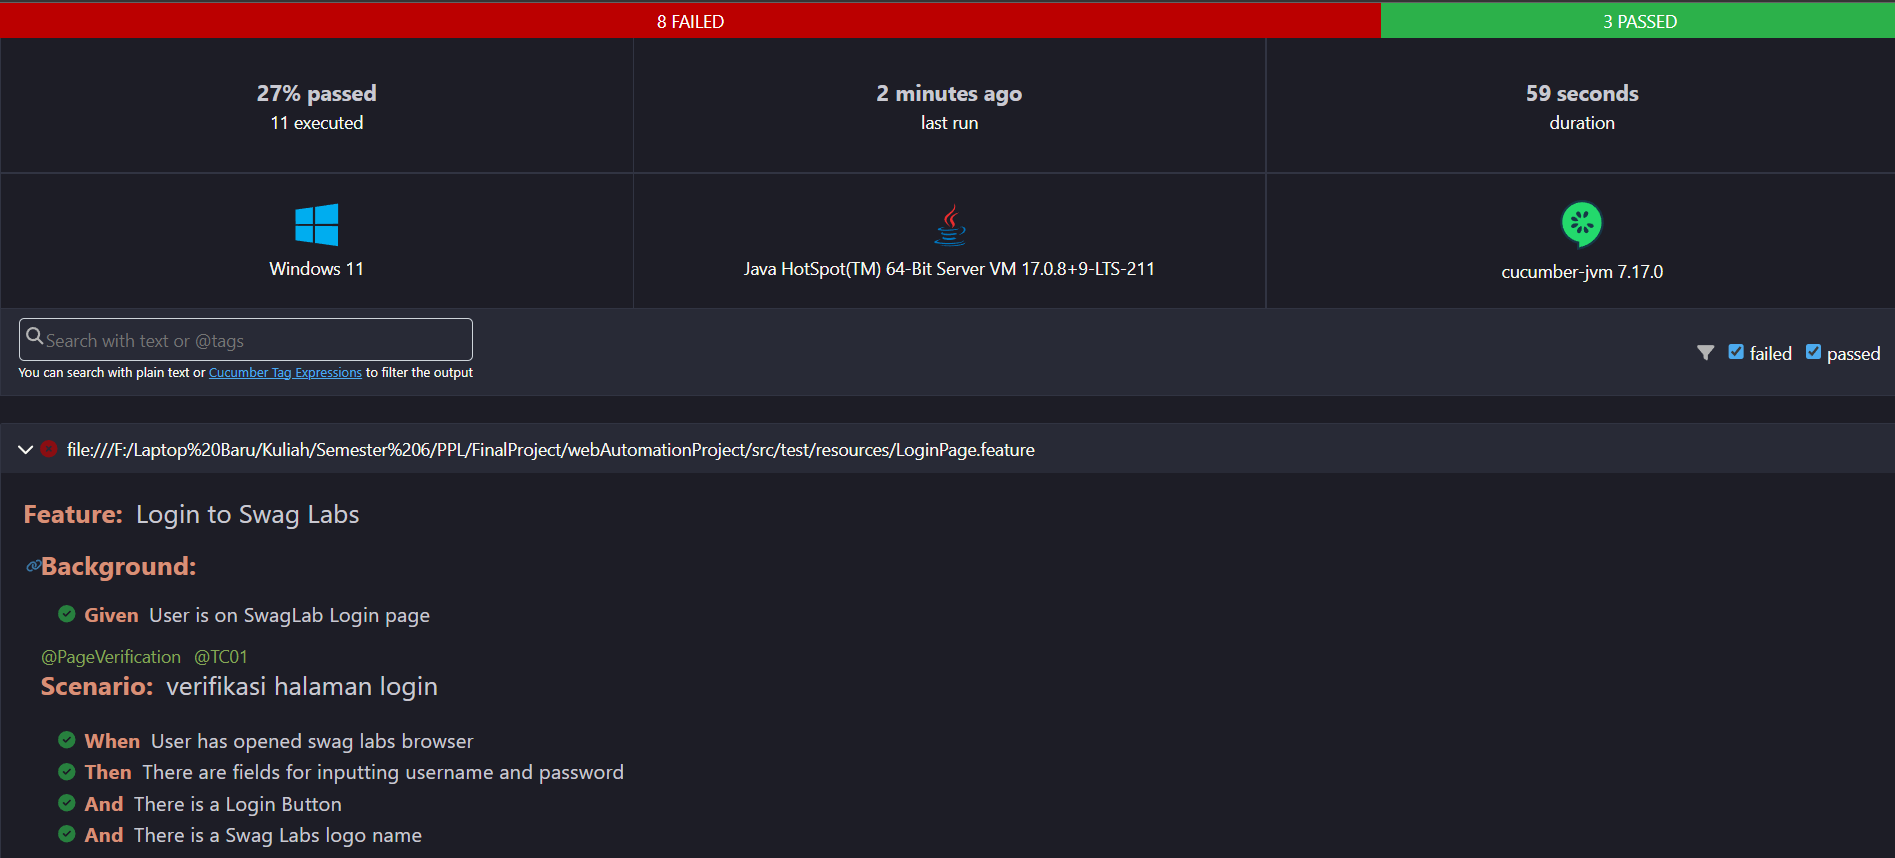
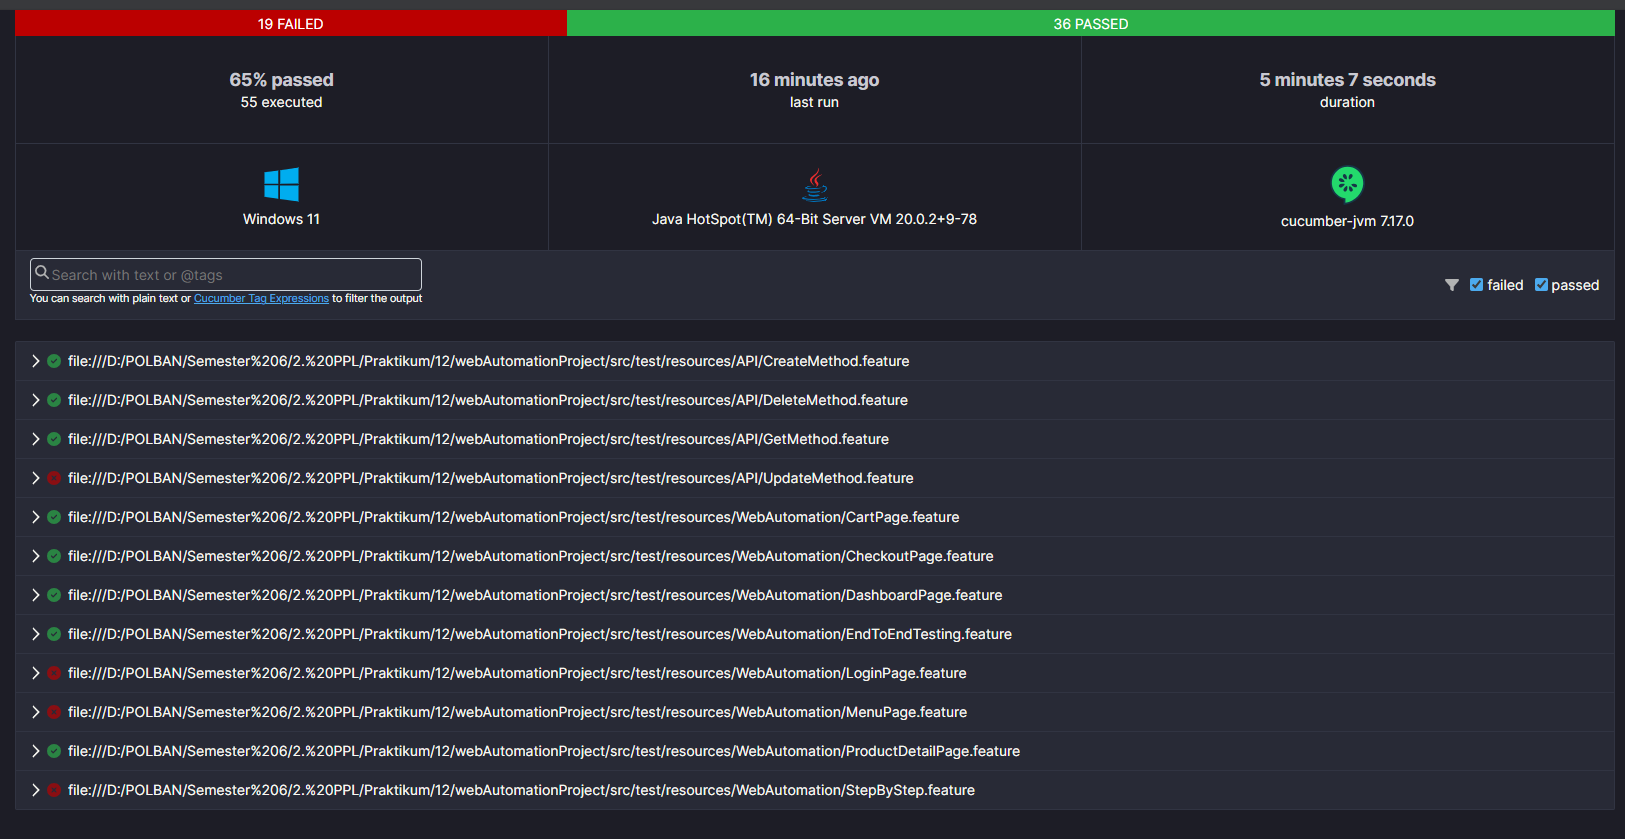
Edit Readme

diff --git a/src/test/java/stepdefinitions/apiTesting/CreateApiSteps.java b/src/test/java/stepdefinitions/apiTesting/CreateApiSteps.java
@@ -32,7 +32,7 @@ public class CreateApiSteps {
                 "\"firstName\": \"Mentari\"," +
                 "\"lastName\": \"Ayu\"," +
                 "\"gender\": \"female\"," +
-                "\"email\": \"mentari.ayhuualysiaa11@example.com\"," +
+                "\"email\": \"mentari.ayhhhhhhhhhhhuualysiaa11@example.com\"," +
                 "\"dateOfBirth\": \"2001-04-26\"," +
                 "\"phone\": \"098218240182\"," +
                 "\"picture\": \"https://example.com/picture.jpg\"," +

diff --git a/README.md b/README.md
@@ -19,6 +19,10 @@ Proyek ini terdiri dari 5 bagian utama:
 4. **Locator:** Berisi file-file yang terdapat code untuk menemukan elemen di halaman web agar bisa diinteraksikan oleh skrip pengujian.
 5. **Runner:** Berisi file untuk menjalankan web automation testing.
 
+Terdapat 2 testing yang dilakukan di proyek ini:
+1. **Web Automation Testing:** Pengujian otomatis dilakukan pada web Swag Labs (https://www.saucedemo.com/). Pengujian dilakukan untuk memastikan setiap fitur berjalan sesuai dengan spesifikasi requirement dan desainnya.
+2. **API Testing:** Pengujian otomatis dilakukan pada User Controller API Dummy (https://dummyapi.io/). Pengujian dilakukan untuk memastikan setiap method API untuk User Controller berjalan sesuai dengan API Contract.
+
 ## Prasyarat
 
 1. Pastikan untuk mengklon repository ini ke dalam direktori lokal Anda dengan perintah:
@@ -68,23 +72,62 @@ Berikut struktur folder project setelah program dijalankan hingga step npm test:
 │   ├── ...
 │   └── test
 |       ├── java
-|       |    ├── webAutomation.actions.actions
-|       │    │    ├── HomePageActions.java
-|       │    │    └── LoginPageActions.java
-|       │    ├── webAutomation.actions.locators
-|       │    │    ├── HomePageLocators.java
-|       │    │    └── LoginPageLocators.java
+|       |    ├── apiTesting.utils
+|       |    │    └── HelperClass.java
 |       │    ├── runner
 |       │    │    └── cucumberRunnerTest.java
 |       │    ├── stepdefinitions
-|       │    │    ├── Hooks.java
-|       │    │    ├── LoginSteps.java
-|       │    │    └── LogoutSteps.java
-|       │    └── webAutomation.utils
-|       │         └── HelperClass.java
+|       │    │    ├── apiTesting
+|       │    │    │    ├── CreateApiSteps.java
+|       │    │    │    ├── DeleteApiSteps.java
+|       │    │    │    ├── GetApiSteps.java
+|       │    │    │    ├── Hooks.java
+|       │    │    │    └── UpdateApiSteps.java
+|       │    │    └── webAutomation
+|       │    │         ├── CartPageSteps.java
+|       │    │         ├── CheckoutPageSteps.java
+|       │    │         ├── DashboardPageSteps.java
+|       │    │         ├── DetailProductPageSteps.java   
+|       │    │         ├── EndToEndTestingSteps.java
+|       │    │         ├── Hooks.java
+|       │    │         ├── LoginSteps.java
+|       │    │         ├── MenuPageSteps.java
+|       │    │         └── StepBySteps.java
+|       │    └── webAutomation
+|       │    │    ├── actions
+|       │    │    │    ├── CartPageActions.java
+|       │    │    │    ├── CheckoutCompletePageActions.java
+|       │    │    │    ├── CheckoutInfoPageActions.java
+|       │    │    │    ├── CheckoutOvwPageActions.java
+|       │    │    │    ├── DashboardPageActions.java
+|       │    │    │    ├── DetailProductPageActions.java
+|       │    │    │    └── LoginPageActions.java
+|       │    │    ├── locator
+|       │    │    │    ├── CartPageLocator.java
+|       │    │    │    ├── CheckoutCompletePageLocator.java
+|       │    │    │    ├── CheckoutInfoPageLocator.java
+|       │    │    │    ├── CheckoutOvwPageLocator.java
+|       │    │    │    ├── DashboardPageLocator.java
+|       │    │    │    ├── DetailProductPageLocator.java
+|       │    │    │    └── LoginPageLocator.java
+|       │    │    └── utils
+|       │    │         ├── HelperClass.java
 |       └── resource
-|           ├── LoginPage.feature 
-|           └── LogoutPage.feature
+|           ├── API
+|           │    ├── CreateMethod.feature
+|           │    ├── DeleteMethod.feature
+|           │    ├── GetMethod.feature
+|           │    └── UpdateMethod.feature
+|           └── WebAutomation
+|                ├── CartPage.feature
+|                ├── CheckoutPage.feature
+|                ├── DashboardPage.feature
+|                ├── EndToEndTesting.feature
+|                ├── LoginPage.feature
+|                ├── MenuPage.feature
+|                ├── ProductDetailPage.feature
+|                └── StepByStep.feature
+
 ├── pom.xml
 └── README.md
     
@@ -92,9 +135,9 @@ Berikut struktur folder project setelah program dijalankan hingga step npm test:
 
 ## Pengujian dan Generate Report
 Pengujian dilakukan menggunakan JUnit. Laporan hasil pengujian akan digenerate secara otomatis. Laporan ini terletak pada folder `target` setelah pengujian otomatis dijalankan. Hasil pengujiannya sebagai berikut:
-- Total test: <span style="color:#2196F3; font-weight:bold;">11</span>
-- Successful: <span style="color:#4CAF50; font-weight:bold;">3 (27%)</span>
-- Failures: <span style="color:#F44336; font-weight:bold;">8 (73%)</span>
+- Total test: <span style="color:#2196F3; font-weight:bold;">55</span>
+- Successful: <span style="color:#4CAF50; font-weight:bold;">43 (65%)</span>
+- Failures: <span style="color:#F44336; font-weight:bold;">12 (35%)</span>
 - Igroned: <span style="color:#FFC107; font-weight:bold;">0</span>
 
 <br> <img src="src/image/report.png">
@@ -128,3 +171,9 @@ Pengujian dilakukan menggunakan JUnit. Laporan hasil pengujian akan digenerate s
 
 5. ![EdgeDriver](https://img.shields.io/badge/EdgeDriver-WebDriver-%2374CB)
    <br>EdgeDriver adalah driver untuk mengotomatisasi pengujian di browser Microsoft Edge. Kunjungi [situs web Selenium](https://www.selenium.dev/documentation/en/) untuk informasi lebih lanjut.
+
+6. ![RestAssured](https://img.shields.io/badge/RestAssured-API_Testing_Library-%2300E676)
+    <br>RestAssured adalah library Java yang kuat untuk melakukan pengujian API secara otomatis. Dengan RestAssured, Anda dapat dengan mudah melakukan permintaan HTTP ke endpoint API, memeriksa respons, dan memvalidasi data JSON. Kunjungi dokumentasi RestAssured untuk informasi lebih lanjut.
+
+7. ![](https://img.shields.io/badge/TestNG-Framework_Pengujian-%23a5d6a7)
+    <br>Framework pengujian</span> yang digunakan untuk menulis dan menjalankan unit tes dalam proyek Java. Kunjungi [situs web TestNG](https://testng.org/) untuk informasi lebih lanjut.
